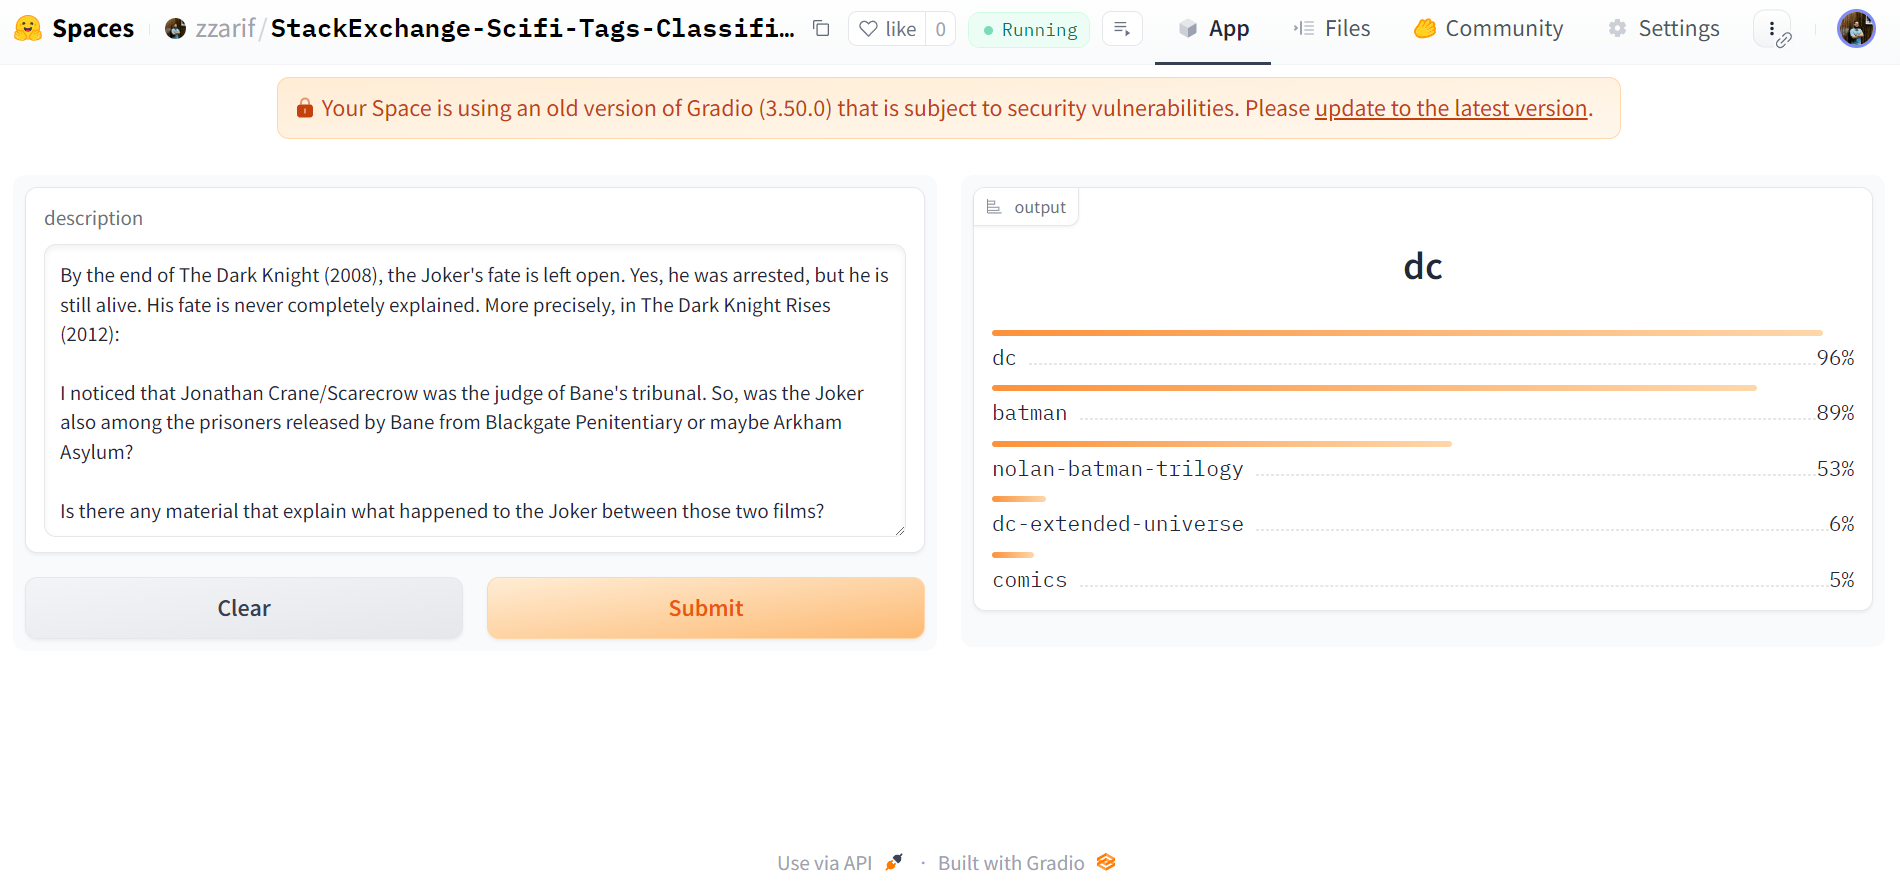
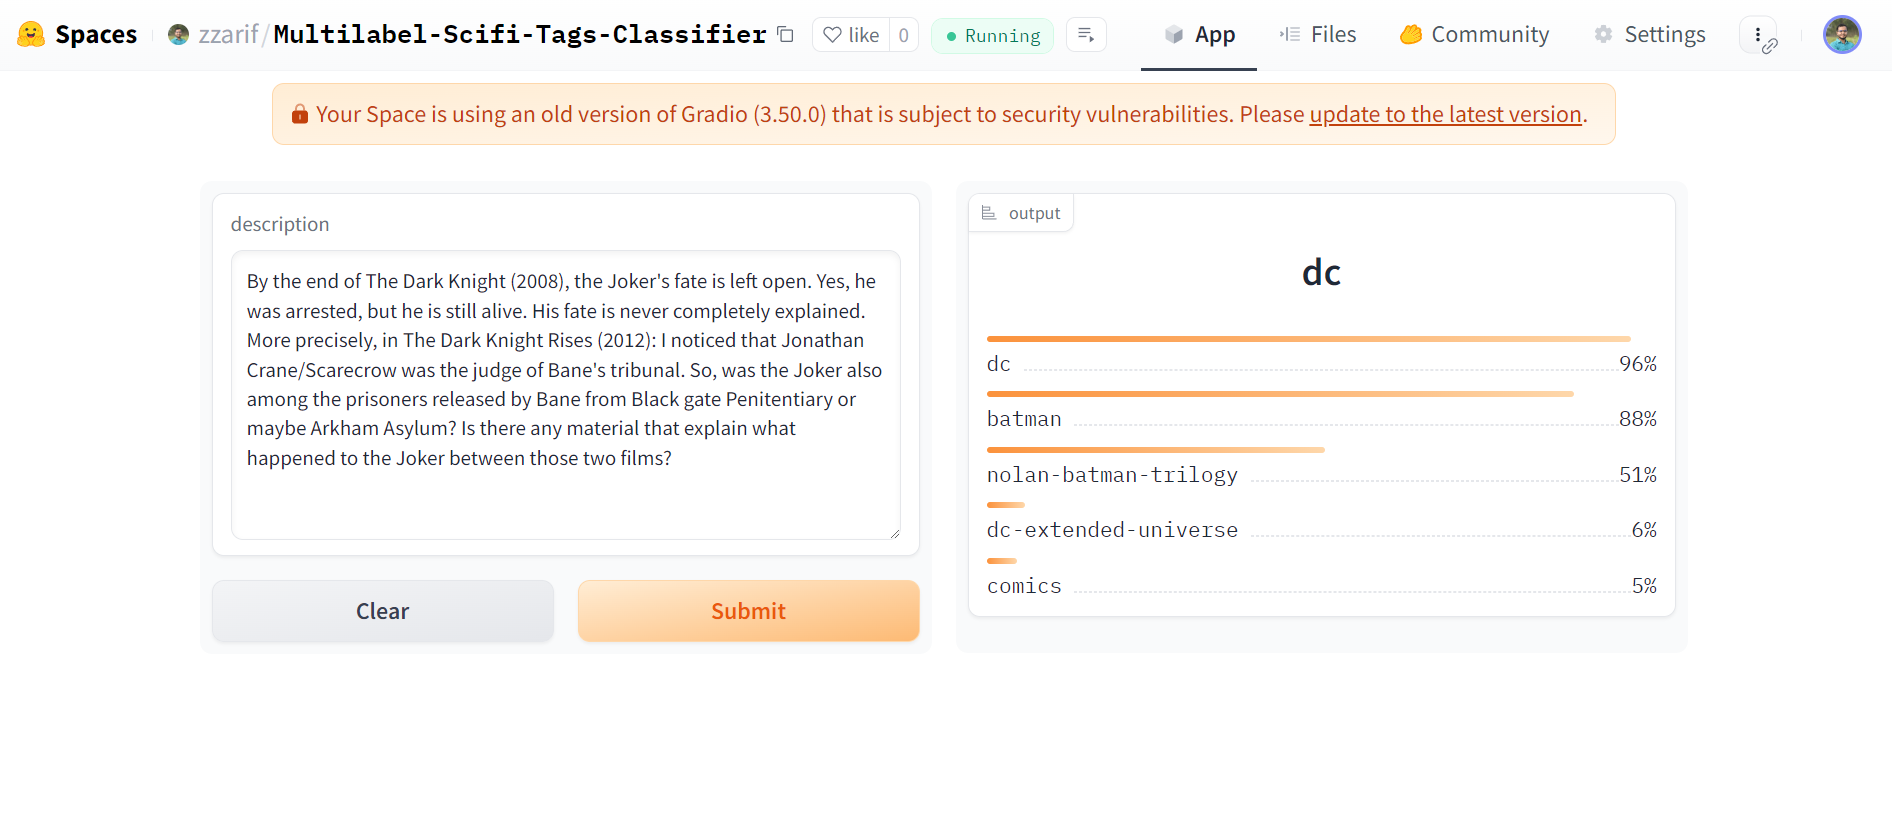
README update

diff --git a/README.md b/README.md
@@ -1,6 +1,6 @@
-# StackExchange Scifi Tags Classifier
+# Multilabel Scifi Tags Classifier
 
-A multi label text classification model from data collection, model training and deployment. The model can classify **160** different types of question tags from https://scifi.stackexchange.com. The keys of `tag_types_encoded.json` shows the list of question tags.
+A multi-label text classification model from data collection, model training and deployment. The model can classify **160** different types of question tags from https://scifi.stackexchange.com. The keys of `tag_types_encoded.json` shows the list of question tags.
 
 ## Data Collection
 
